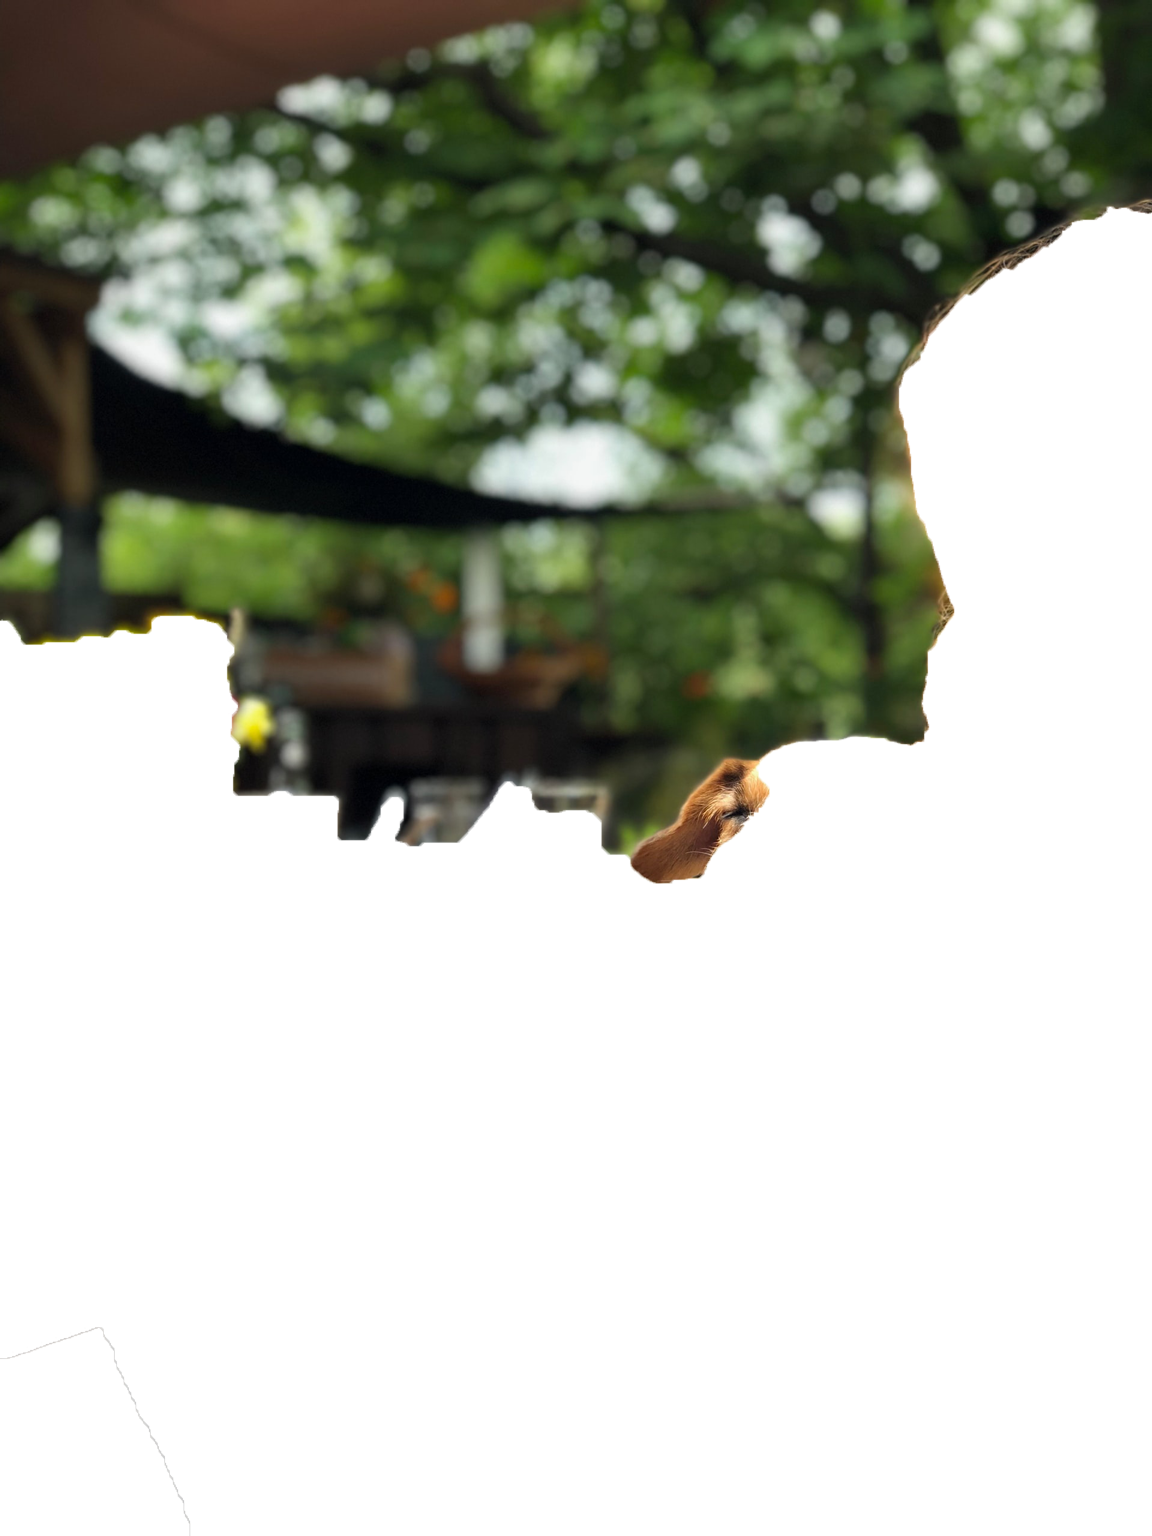
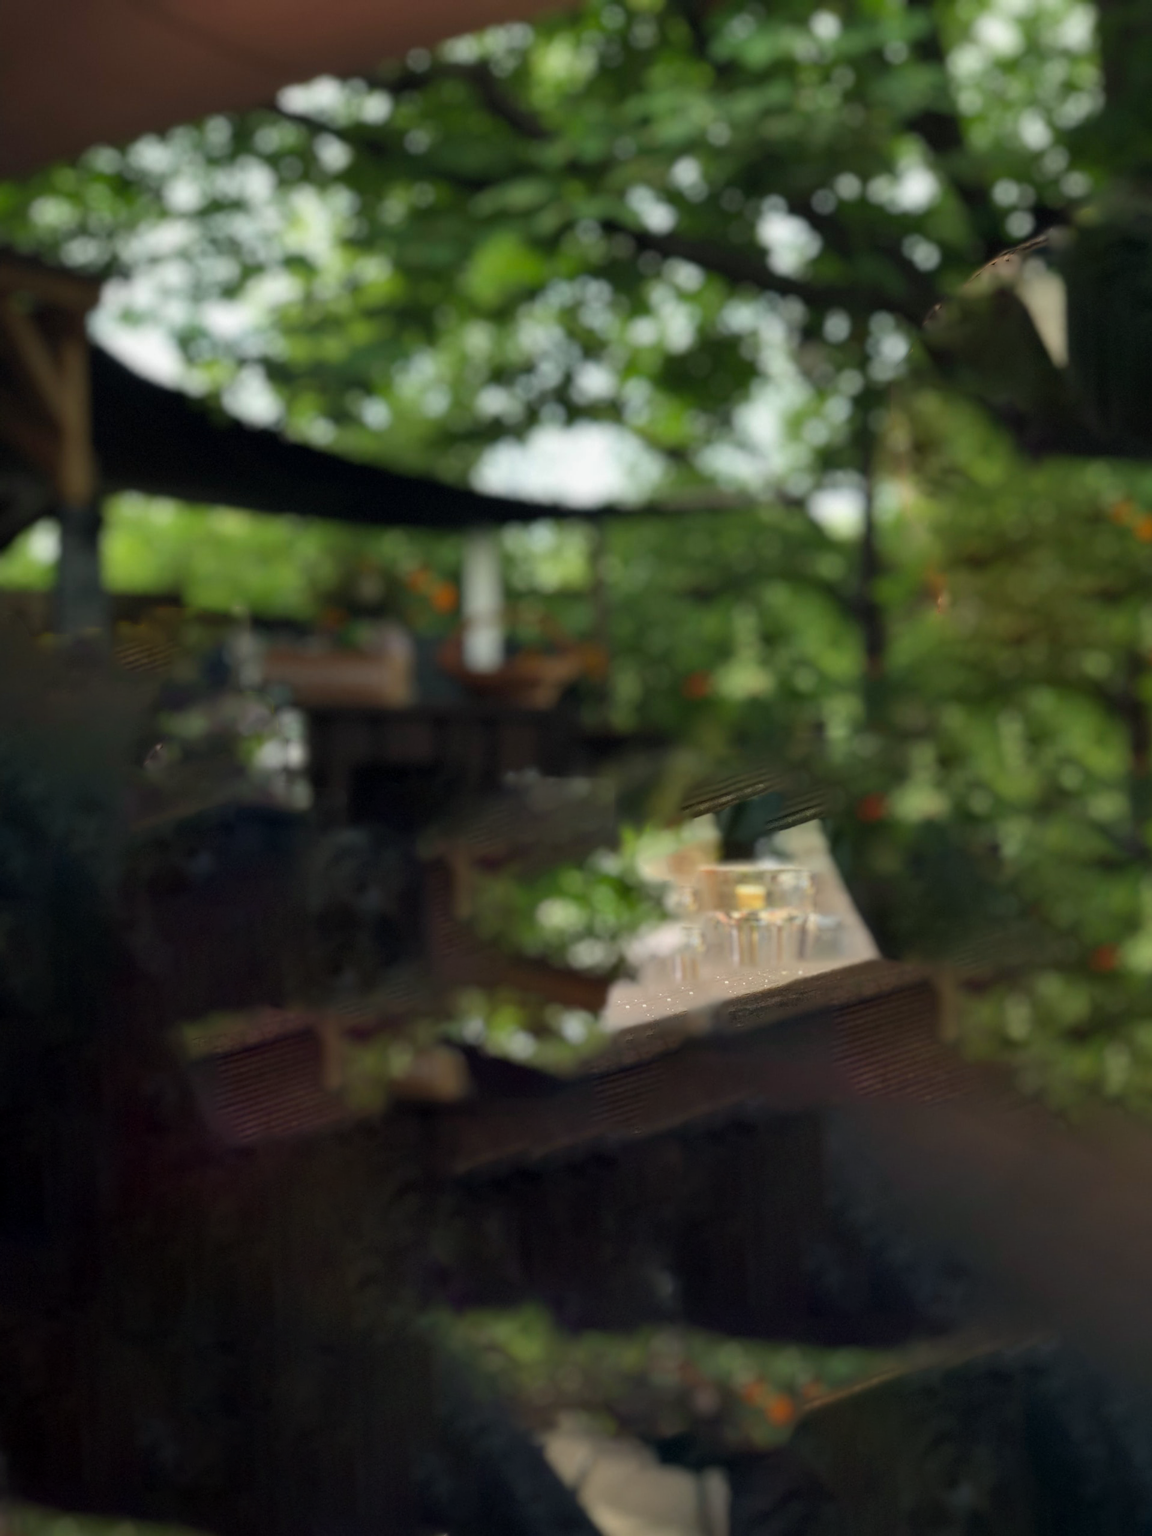
Feat: 2.5d parallax scroll

diff --git a/src/App.css b/src/App.css
@@ -62,9 +62,10 @@ h5 h4 h3 h2 h1 p button li {
 	right: 120px;
 	background-color:rgba(255, 255, 255, 0.281);
 	padding:.5rem;
+	padding-bottom: .2rem;
 	border-radius: 5px;
 
-	z-index: 1;
+	z-index: 999;
 
 	-webkit-user-select: none;
 	user-select: none;
@@ -198,6 +199,7 @@ h5 h4 h3 h2 h1 p button li {
 
 .splash-header {
 	font-weight: 700;
+	font-size: 40px;
 }
 
 .splash-text-wrapper {
@@ -294,32 +296,42 @@ h5 h4 h3 h2 h1 p button li {
 	text-align: left;
 	text-transform: none;
 	white-space: normal;
+	text-shadow: 2px 0px 15px rgb(48, 48, 48);
+
 }
 
 /************************************** First Card *******************************/
 .splash-card-first-container {
 	background-position: center;
+	z-index: 4;
 	background-repeat: no-repeat;
 	background-color: var(--background-main);
 	/* background-image: url("./images/Spaget.png"); */
 	background-attachment: fixed;
 	position: relative;
 	overflow: hidden;
+
 }
 
 #card-one-header {
 	width: fit-content;
 	text-align: center;
 	align-self: center;
-	animation: scoot-in-down 0.3s;
+
+	animation: scoot-in-down 0.35s;
+	animation-play-state: paused;
+	animation-delay: calc(var(--scroll) * -1s);
+	text-shadow: 2px 0px 15px rgba(150, 150, 150, 0.59);
+}
+
+#card-one-text-wrapper {
+	animation: scoot-in-down 0.35s;
 	animation-play-state: paused;
 	animation-delay: calc(var(--scroll) * -1s);
 }
 
-#card-one-text-wrapper {
-	animation: scoot-in-down 0.3s;
-	animation-play-state: paused;
-	animation-delay: calc(var(--scroll) * -1s);
+.card-one-text{
+	text-shadow: 2px 0px 15px rgba(150, 150, 150, 0.59);
 }
 
 .splash-instruction-text-wrapper {
@@ -329,6 +341,7 @@ h5 h4 h3 h2 h1 p button li {
 	z-index: 0;
 }
 
+
 .splash-card-one-image {
 	position: absolute;
 	top: 0;
@@ -337,7 +350,7 @@ h5 h4 h3 h2 h1 p button li {
 	bottom: 0;
 	margin: 0 auto;
 
-	animation: scoot-in-left 0.3s;
+	animation: scoot-in-left 0.4s;
 	animation-play-state: paused;
 	animation-delay: calc(var(--scroll) * -1s);
 }
@@ -346,6 +359,12 @@ h5 h4 h3 h2 h1 p button li {
 
 .splash-card-second {
 	background-color: #bd7f7f;
+
+}
+
+.card-two-info-wrapper{
+	z-index: 4;
+	
 }
 
 .thumb {
@@ -367,21 +386,31 @@ h5 h4 h3 h2 h1 p button li {
 .thumb .splash-dog-foreground {
 	background: url(./images/dog_table_foreground.png) center no-repeat;
 	background-size: cover;
+	z-index: 3;
+	height: 115vh;
 }
 
 .thumb .splash-dog-midground {
 	background: url(./images/dog_table_midground.png) center no-repeat;
 	background-size: cover;
+	z-index: 2;
+	height: 110vh;
 }
 .thumb .splash-dog-background {
 	background: url(./images/dog_table_background.png) center no-repeat;
 	background-size: cover;
+	z-index: 1;
 }
 
 /************************************** Third Card *******************************/
 
 .splash-card-third {
 	background: #ae3636;
+	position: absolute;
+	z-index: 5;
+	/* background: url("./images/pasta-making.jpg") center no-repeat;
+	background-size:cover; */
+	text-shadow: 2px 0px 15px rgba(150, 150, 150, 0.59);
 }
 #card-three-text-wrapper {
 	flex-direction: row;
@@ -389,11 +418,15 @@ h5 h4 h3 h2 h1 p button li {
 #splash-card-three-image {
 	width: 25%;
 	margin: 0 auto;
+
+	animation: wobble-hor-bottom 2.8s infinite both;
 }
 #splash-card-three-text {
 	padding: 0;
 	margin: auto;
+	text-shadow: 2px 0px 15px rgba(150, 150, 150, 0.59);
 }
+
 /************************************** || Scroll Snapping *******************************/
 
 .y.mandatory-scroll-snapping {

diff --git a/src/Animation.css b/src/Animation.css
@@ -124,3 +124,87 @@
 		background-color: white;
 	}
 }
+
+@-webkit-keyframes slide-in-fwd-center {
+	0% {
+		-webkit-transform: translateZ(-1400px);
+		transform: translateZ(-1400px);
+		opacity: 0;
+	}
+	100% {
+		-webkit-transform: translateZ(0);
+		transform: translateZ(0);
+		opacity: 1;
+	}
+}
+@keyframes slide-in-fwd-center {
+	0% {
+		-webkit-transform: translateZ(-1400px);
+		transform: translateZ(-1400px);
+		opacity: 0;
+	}
+	100% {
+		-webkit-transform: translateZ(0);
+		transform: translateZ(0);
+		opacity: 1;
+	}
+}
+
+@-webkit-keyframes wobble-hor-bottom {
+	0%,
+	100% {
+		-webkit-transform: translateX(0%);
+		transform: translateX(0%);
+		-webkit-transform-origin: 50% 50%;
+		transform-origin: 50% 50%;
+	}
+	15% {
+		-webkit-transform: translateX(-30px) rotate(-6deg);
+		transform: translateX(-30px) rotate(-6deg);
+	}
+	30% {
+		-webkit-transform: translateX(15px) rotate(6deg);
+		transform: translateX(15px) rotate(6deg);
+	}
+	45% {
+		-webkit-transform: translateX(-15px) rotate(-3.6deg);
+		transform: translateX(-15px) rotate(-3.6deg);
+	}
+	60% {
+		-webkit-transform: translateX(9px) rotate(2.4deg);
+		transform: translateX(9px) rotate(2.4deg);
+	}
+	75% {
+		-webkit-transform: translateX(-6px) rotate(-1.2deg);
+		transform: translateX(-6px) rotate(-1.2deg);
+	}
+}
+@keyframes wobble-hor-bottom {
+	0%,
+	100% {
+		-webkit-transform: translateX(0%);
+		transform: translateX(0%);
+		-webkit-transform-origin: 50% 50%;
+		transform-origin: 50% 50%;
+	}
+	15% {
+		-webkit-transform: translateX(-30px) rotate(-6deg);
+		transform: translateX(-30px) rotate(-6deg);
+	}
+	30% {
+		-webkit-transform: translateX(15px) rotate(6deg);
+		transform: translateX(15px) rotate(6deg);
+	}
+	45% {
+		-webkit-transform: translateX(-15px) rotate(-3.6deg);
+		transform: translateX(-15px) rotate(-3.6deg);
+	}
+	60% {
+		-webkit-transform: translateX(9px) rotate(2.4deg);
+		transform: translateX(9px) rotate(2.4deg);
+	}
+	75% {
+		-webkit-transform: translateX(-6px) rotate(-1.2deg);
+		transform: translateX(-6px) rotate(-1.2deg);
+	}
+}

diff --git a/src/components/Splash.js b/src/components/Splash.js
@@ -4,6 +4,17 @@ import pastaImg from "../images/Pasta1.png";
 import spaget from "../images/Spaget.png";
 
 export default function Splash() {
+	function parallax(element, distance, speed) {
+		const item = document.querySelector(element);
+		item.style.transform = `translateY(${distance * speed}px)`;
+	}
+	window.addEventListener("scroll", () => {
+		// parallax(".thumb", window.scrollY, 1);
+		parallax(".splash-dog-foreground", window.scrollY - 1050, -0.13);
+		parallax(".splash-dog-midground", window.scrollY - 1500, -0.08);
+		parallax(".splash-dog-background", window.scrollY - 1300, -0.01);
+	});
+
 	window.addEventListener(
 		"scroll",
 		() => {
@@ -62,10 +73,10 @@ export default function Splash() {
 						className="splash-instruction-text-wrapper"
 						id="card-one-text-wrapper"
 					>
-						<h4 className="splash-instruction-text">
+						<h4 className="splash-instruction-text card-one-text">
 							With so many options on our menu, It may be hard to decide!
 						</h4>
-						<h4 className="splash-instruction-text">
+						<h4 className="splash-instruction-text card-one-text">
 							Simply choose many meal kits along with the number of eaters and we'll
 							ship fresh ingredients in the right proportions directly to your door.
 						</h4>
@@ -73,12 +84,12 @@ export default function Splash() {
 				</div>
 			</section>
 			<section className="splash-instruction-container splash-card-second thumb container  y mandatory-scroll-snapping">
-				<div className="splash-instruction-wrapper">
+				<div className="splash-instruction-wrapper card-two-info-wrapper">
 					<h1 className="splash-instruction-header">2. HAVE FUN AND COOK</h1>
 					<h4 className="splash-instruction-text">
 						Follow along with our step-by-step instructions and enjoy cooking with
 						everyone's best friend, your dog. Our chefs have curated recipes to blow
-						you and your k-9 companion's mind
+						you and your k-9 companion's mind!
 					</h4>
 				</div>
 				<div className="splash_instruction_parallax">
